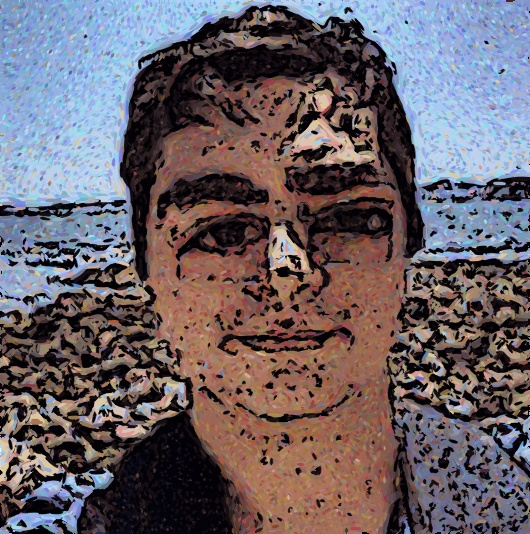
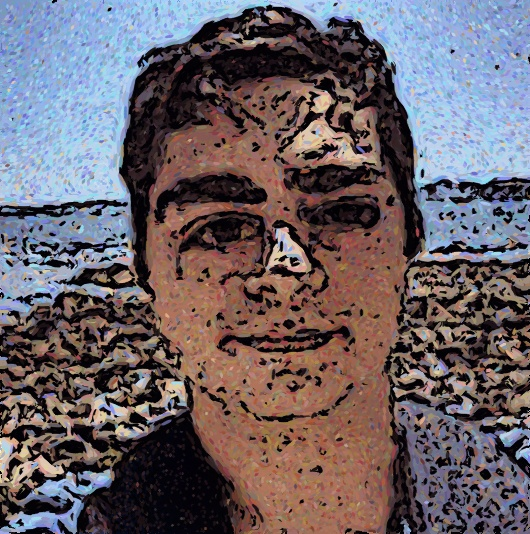
random weight
added randomness

diff --git a/caricature.py b/caricature.py
@@ -5,6 +5,7 @@ from PIL import Image
 from imutils import face_utils
 import argparse
 import imutils
+import random
 
 def caricature(filename, outputFilename):
 	# Get user supplied values
@@ -37,7 +38,9 @@ def caricature(filename, outputFilename):
 		for (ex,ey,ew,eh) in eyes:
 			im2 = im.crop((ex, ey, ex+ew, ey+eh))
 			width, height = im2.size
-			im2 = im2.resize((round(width * 1.5), round(height * 1.5)))
+			weight_value = random.uniform(1.25, 1.45)
+			print("Random weight is " + str(weight_value))
+			im2 = im2.resize((round(width * weight_value), round(height * weight_value)))
 			im.paste(im2, (ex, ey))
 			im.save(outputFilename)
 			cv2.rectangle(image, (ex,ey), (ex+ew, ey+eh), (0,255,0), 2)
